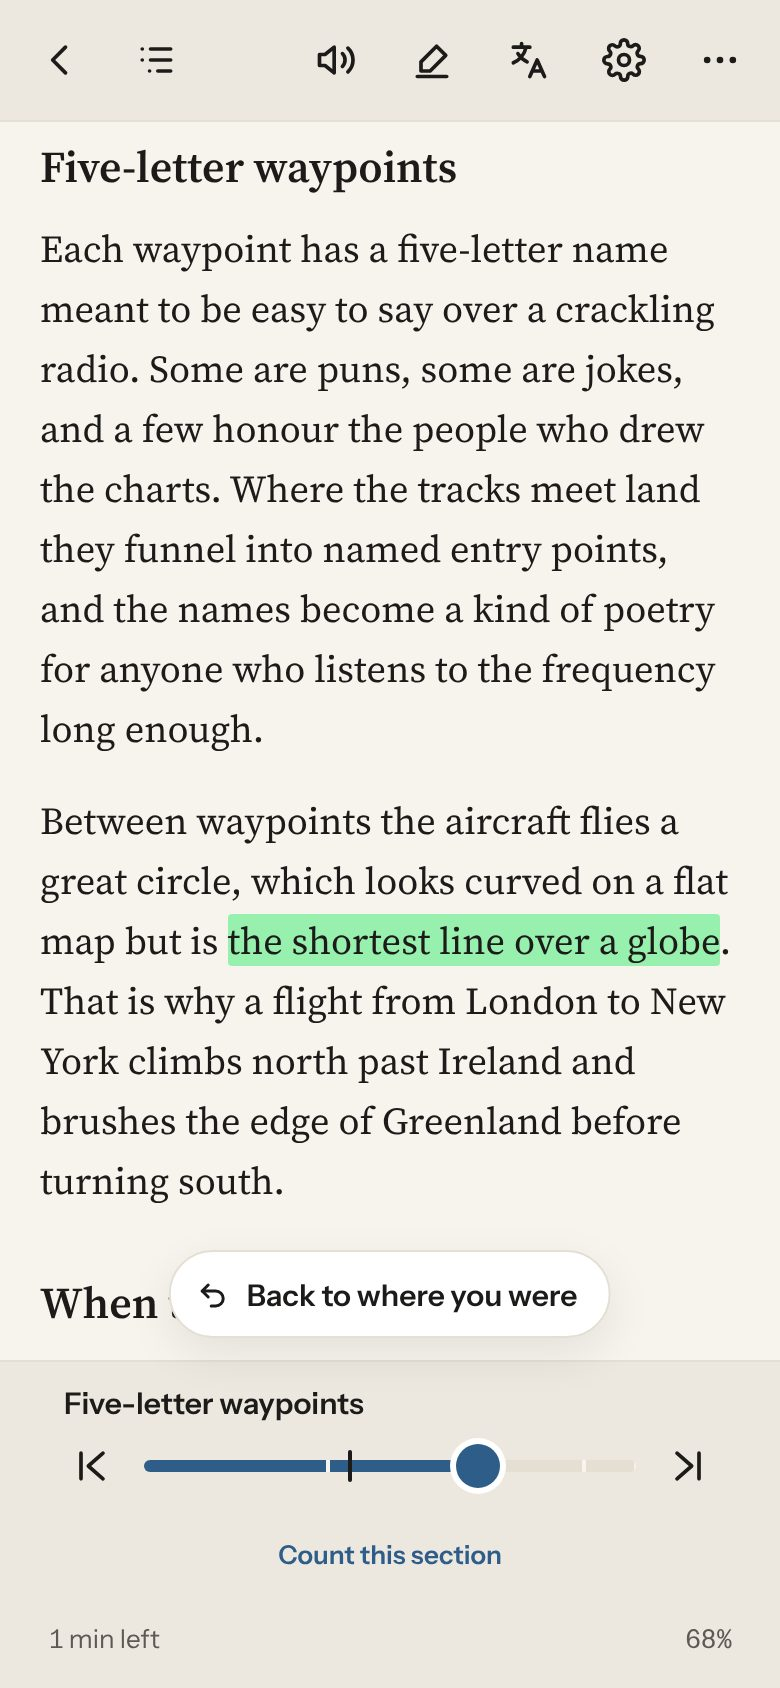
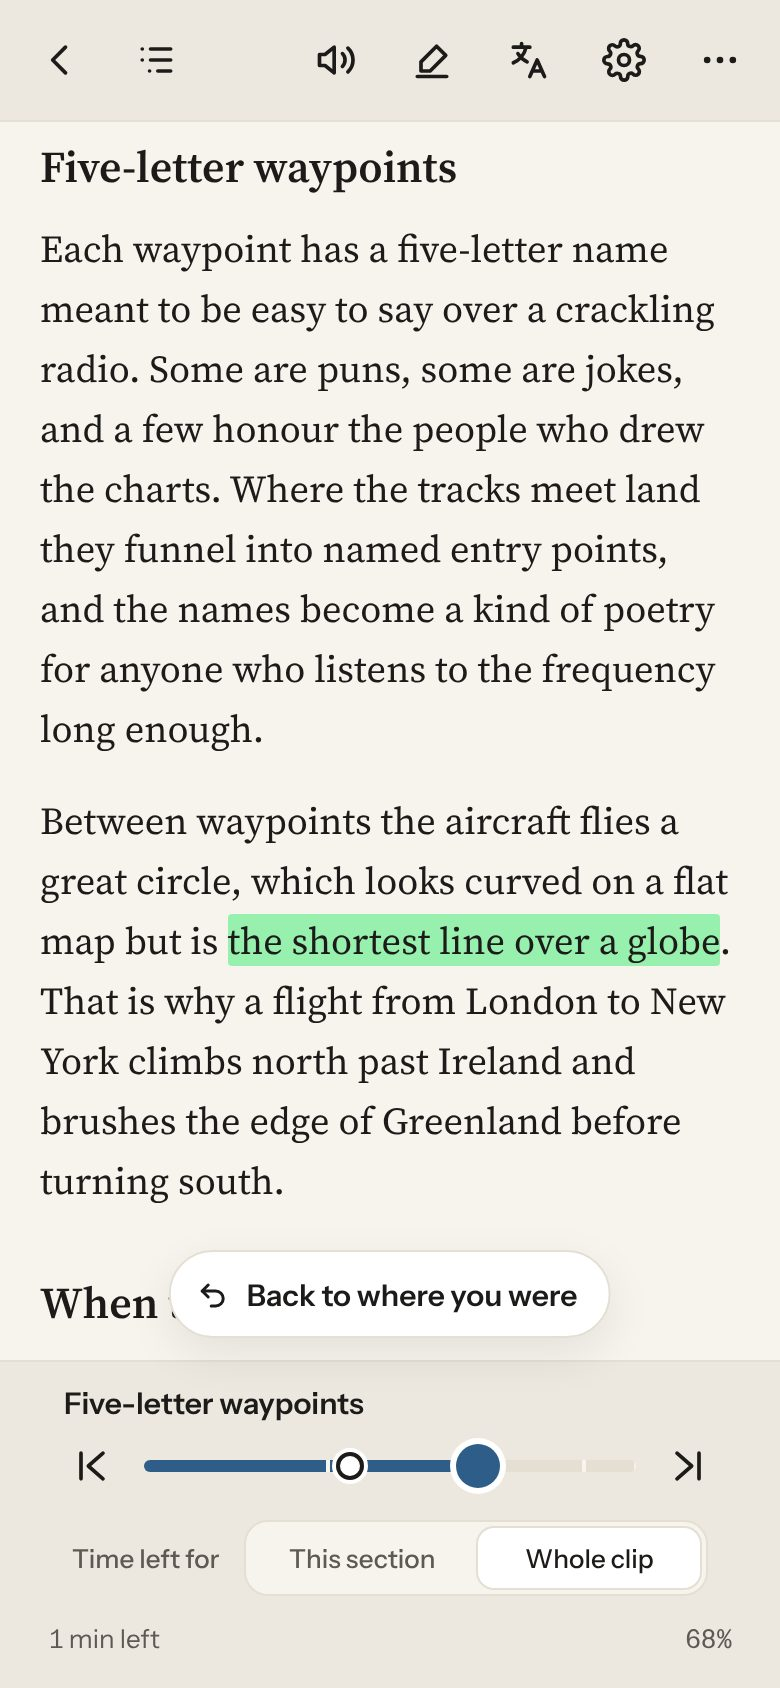
Skim bar: ring where Back goes, Time left for: This section / Whole clip
Claude-Session: https://claude.ai/code/session_01CFeKri88aqbarNXwJJ7zZ1

Changed region(s): [[0.3692, 0.8626, 0.8923, 0.955]]

diff --git a/src/styles.css b/src/styles.css
@@ -935,7 +935,10 @@ html.native .find-bar { padding-top: calc(var(--s-2) + env(safe-area-inset-top))
 .skim-track[dir="rtl"] .skim-fill { transform-origin: right; }
 .skim-ticks { position: absolute; inset: 0; }
 /* Where Back goes: a short line through the rail (1.48.4). */
-.skim-from { position: absolute; top: 50%; width: 2px; height: 16px; margin-top: -8px; margin-inline-start: -1px; border-radius: 1px; background: var(--ink); }
+.skim-from {
+  position: absolute; top: 50%; width: 14px; height: 14px; margin-top: -7px; margin-inline-start: -7px;
+  border-radius: var(--r-full); border: 2px solid var(--ink); background: var(--surface); box-shadow: 0 0 0 2px var(--surface);
+}
 .skim-from[hidden] { display: none; }
 .skim-knob {
   position: absolute; top: 50%; width: 22px; height: 22px; margin-top: -11px; margin-inline-start: -11px;
@@ -943,10 +946,10 @@ html.native .find-bar { padding-top: calc(var(--s-2) + env(safe-area-inset-top))
   transition: scale var(--spring-control-ms, 300ms) var(--spring-control, ease-out);
 }
 .reader.skimming .skim-knob { scale: 1.2; }
-.skim-left {
-  display: block; min-height: var(--tap); padding: 0 var(--s-3);
-  border: 0; background: none; color: var(--accent); font: 600 var(--fs-meta)/1 var(--sans);
-}
+.skim-left { display: flex; align-items: center; justify-content: center; gap: var(--s-3); min-height: var(--tap); padding: var(--s-1) var(--s-3) 0; }
+.skim-left-label { color: var(--muted); font: 500 var(--fs-meta)/var(--lh-meta) var(--sans); white-space: nowrap; }
+.skim-left .seg { flex: 0 1 240px; }
+.skim-left .seg-face { min-height: 30px; font-size: var(--fs-meta); }
 @keyframes skim-up { from { transform: translateY(100%); } }
 :root[data-motion="off"] .skim-bar { animation: none; }
 @media (prefers-reduced-motion: reduce) {

diff --git a/src/app-reader.js b/src/app-reader.js
@@ -2603,7 +2603,22 @@ function skimPaint(at) {
   track.setAttribute("aria-valuetext", skimText(at).join(", "));
   const p = state.open, top = C.reader.parts().filter((x) => x.level === 2).length >= 2;
   $("skimLeft").hidden = !top;
-  if (top) $("skimLeft").textContent = leftIn(p) === "part" ? "Count the whole " + (isBook(p) ? "book" : "clip") : "Count this " + (isBook(p) ? "chapter" : "section");
+  if (top) paintLeft(p);
+}
+// What the minutes left count: this chapter or the whole (1.48.4; a
+// button saying "Count this section" before). Built once per open clip.
+let leftFor = null;
+function paintLeft(p) {
+  const box = $("skimLeft"), book = isBook(p), now = leftIn(p);
+  if (leftFor !== p) {
+    leftFor = p;
+    box.querySelector(".seg")?.remove();
+    box.append(seg("skim-left", "Time left for", [
+      { value: "part", label: book ? "This chapter" : "This section" },
+      { value: "clip", label: book ? "Whole book" : "Whole clip" },
+    ], now, (v) => { if (v !== leftIn(state.open)) toggleLeft(); skimPaint(C.reader.position()); }));
+  }
+  box.querySelectorAll('input[name="skim-left"]').forEach((i) => { i.checked = i.value === now; });
 }
 // The chapter at `at` and where that is: page 12 of 340, or 42%.
 function skimText(at) {
@@ -2654,7 +2669,6 @@ $("readFoot").querySelector(".read-left").addEventListener("click", (e) => {
 });
 $("skimPrev").addEventListener("click", () => skimPart($("skimTrack").dir === "rtl" ? 1 : -1));
 $("skimNext").addEventListener("click", () => skimPart($("skimTrack").dir === "rtl" ? -1 : 1));
-$("skimLeft").addEventListener("click", () => { toggleLeft(); skimPaint(C.reader.position()); });
 {
   const track = $("skimTrack");
   let down = null;

diff --git a/index.html b/index.html
@@ -157,7 +157,7 @@
             <svg width="22" height="22" viewBox="0 0 24 24" fill="none" stroke="currentColor" stroke-width="2" stroke-linecap="round" stroke-linejoin="round" aria-hidden="true"><path d="M18 5v14M6 5l8 7-8 7"></path></svg>
           </button>
         </div>
-        <button class="skim-left" id="skimLeft" type="button" hidden></button>
+        <div class="skim-left" id="skimLeft" hidden><span class="skim-left-label">Time left for</span></div>
       </div>
       <div class="read-left">
         <span class="read-section" id="readSection" dir="auto" aria-hidden="true"></span>

diff --git a/test/ui.test.js b/test/ui.test.js
@@ -657,7 +657,7 @@ function zipOf(files) {
       await q.locator("#skimPrev").click();
       await until(q, () => Waypage.reader.section() === "Chapter 5: Dinner");
       // The minutes count switches from the bar.
-      await q.locator("#skimLeft").click();
+      await q.locator('#skimLeft .seg-item:has(input[value="part"])').click();
       assert.match(await q.locator("#readSection").innerText(), /min left in section/);
       await q.locator("#readSection").click();
       await q.locator("#skimBar").waitFor({ state: "hidden" });

diff --git a/CHANGELOG.md b/CHANGELOG.md
@@ -5,8 +5,10 @@ All notable changes to Carry-on. Newest first.
 ## Unreleased
 
 ### Changed
-- Reader: while skimming, a short line on the bar marks where Back
-  takes you.
+- Reader: while skimming, a ring on the bar marks where Back takes you.
+- Reader: under the skim bar, "Time left for: This section / Whole clip"
+  (chapter and book for a book) in place of the Count this section
+  button.
 - Settings › Google Drive: Back up by itself is a row like the other
   picks, its choice at the end, not a drop-down under its name.
 
